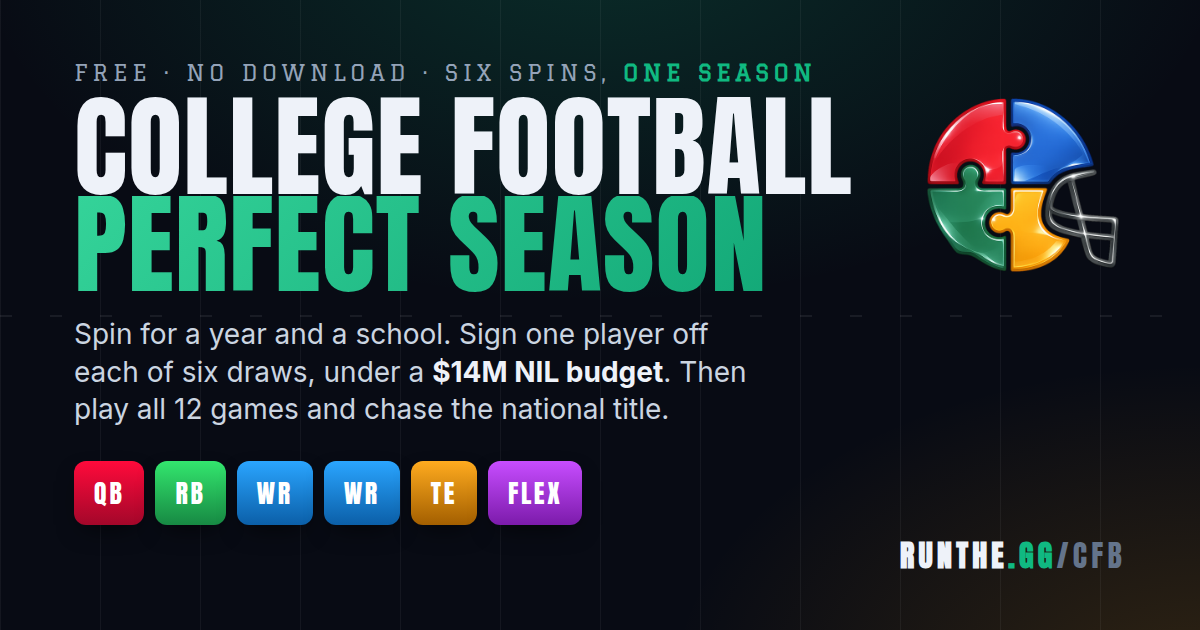
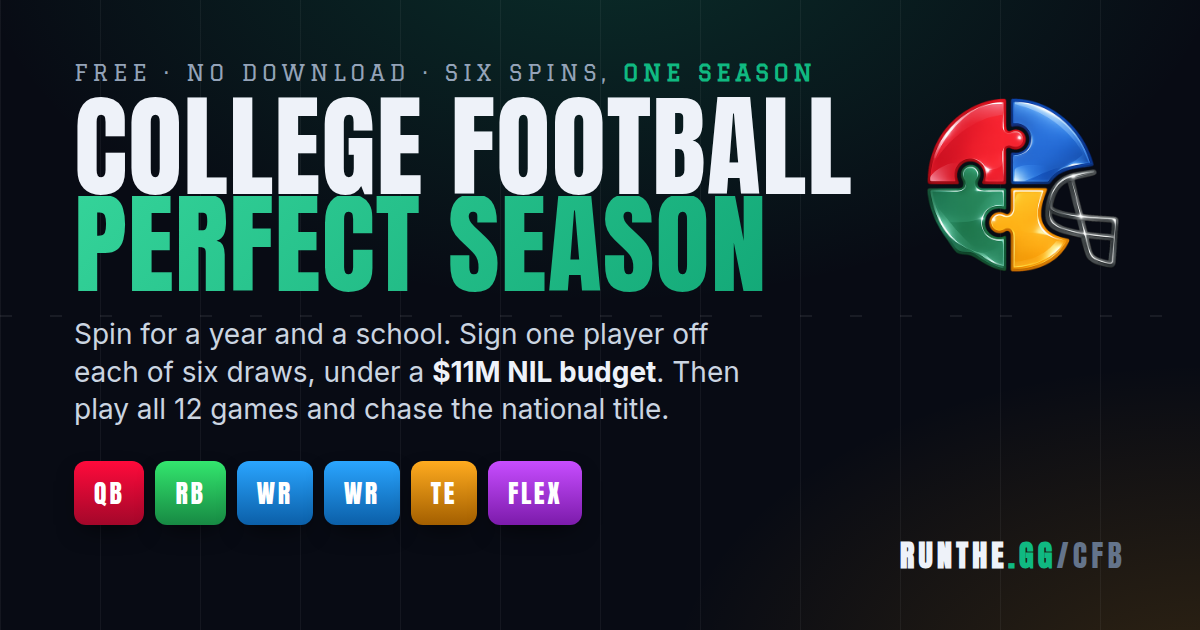
Bump the asset versions, so the cap change actually reaches a browser
The deployed source was right and the deployed page said $11M, but a returning
player still drafted under $14M: every script and data file is served under a
?v= query and none of them moved when the constants did, so the browser kept
using engine.js?v=5 from its cache and never asked whether the file had changed.
New copy, old rules.

engine.js 5 to 6 for the cap, SCALE, POOL_GAMMA, MARGIN_GAIN, the playoff ladder
and the defence term. achievements.js 1 to 2 for the three retuned badges. The
data fetch 1 to 2 for the rebuilt display calibration, which decides the
scorelines. run.js 3 to 4 to keep it honest with the pair it is loaded beside.

og.png was rebuilt from og-source.html, since the share card had "$14M NIL
budget" set into the image itself, and its og:image is now versioned on both
pages so the platforms re-crop it rather than serving the old card.

The rule is written down next to the script tags now: bump the number in the
same commit that edits the file.

Claude-Session: https://claude.ai/code/session_01FcBX49sJXW9CvczwJr2FtM

Changed region(s): [[0.37, 0.573, 0.6167, 0.6333]]

diff --git a/cfb/index.html b/cfb/index.html
@@ -39,14 +39,14 @@
 <meta property="og:site_name" content="RunThe.GG">
 <meta property="og:url" content="https://runthe.gg/cfb/">
 <meta property="og:locale" content="en_US">
-<meta property="og:image" content="https://runthe.gg/cfb/og.png?v=1">
+<meta property="og:image" content="https://runthe.gg/cfb/og.png?v=2">
 <meta property="og:image:width" content="1200">
 <meta property="og:image:height" content="630">
 <meta property="og:image:alt" content="College Football: Perfect Season. Spin for a year and a school, sign six players under an $11M NIL budget and play a full season. The six roster spots shown as QB, RB, WR, WR, TE and FLEX.">
 <meta name="twitter:card" content="summary_large_image">
 <meta name="twitter:title" content="College Football: Perfect Season">
 <meta name="twitter:description" content="Draft a college football roster from every season since 2005 under an $11M NIL budget, then play all 12 games and chase a perfect season.">
-<meta name="twitter:image" content="https://runthe.gg/cfb/og.png?v=1">
+<meta name="twitter:image" content="https://runthe.gg/cfb/og.png?v=2">
 <meta name="twitter:image:alt" content="College Football: Perfect Season. Draft six players under an $11M NIL budget and play a full season.">
 <!-- Structured data, so a search result can carry the game's name and category rather
      than only a blue link. VideoGame is the type Google documents for this; the offer
@@ -2125,10 +2125,19 @@ or endorsed by the NCAA, the CFP or any school.
      before, recording seasons anonymously. An account is a way to put your name on a
      season, not a gate in front of playing one. board.js does not use this library at
      all; it talks to PostgREST with fetch. -->
+<!-- ?v= IS THE ONLY THING THAT SHIPS A CHANGE TO SOMEONE WHO HAS ALREADY PLAYED.
+     These files are served with an ordinary cache header, so a returning browser
+     reuses whatever it holds under this exact URL and never asks whether the file
+     moved. The HTML updates, the scripts do not, and the game runs old rules under
+     new copy: after the cap went to $11M the page said $11M everywhere while the
+     draft still handed out $14M, because engine.js was still ?v=5 in the browser.
+     BUMP THE NUMBER IN THE SAME COMMIT THAT EDITS THE FILE. The data files are
+     versioned too, in the fetch at the bottom of this file, and the share card is
+     versioned on its og:image. -->
 <script defer src="https://cdn.jsdelivr.net/npm/@supabase/supabase-js@2.45.4/dist/umd/supabase.js"></script>
-<script src="engine.js?v=5"></script>
-<script src="run.js?v=3"></script>
-<script src="achievements.js?v=1"></script>
+<script src="engine.js?v=6"></script>
+<script src="run.js?v=4"></script>
+<script src="achievements.js?v=2"></script>
 <script src="auth.js?v=1"></script>
 <script src="board.js?v=1"></script>
 <script>
@@ -3255,7 +3264,7 @@ function patchLastRun(patch){
 /* ── boot ────────────────────────────────────────────────────── */
 async function boot(){
   try{
-    const j=(f)=>fetch(f+'?v=1').then(r=>{if(!r.ok)throw new Error(f);return r.json();});
+    const j=(f)=>fetch(f+'?v=2').then(r=>{if(!r.ok)throw new Error(f);return r.json();});
     const [pl,tm,bat,co,cu,lg,cal]=await Promise.all([
       j('data/cfb_player_seasons.json'),j('data/cfb_team_seasons.json'),
       j('data/cfb_battery.json'),j('data/cfb_coaches.json'),

diff --git a/cfb/how-to-play.html b/cfb/how-to-play.html
@@ -17,7 +17,7 @@
 <meta property="og:url" content="https://runthe.gg/cfb/how-to-play.html">
 <meta property="og:title" content="How to Play College Football: Perfect Season">
 <meta property="og:description" content="Six spins, an $11M NIL budget and a 12-game season. The rules of the free college football draft game on RunThe.GG.">
-<meta property="og:image" content="https://runthe.gg/cfb/og.png">
+<meta property="og:image" content="https://runthe.gg/cfb/og.png?v=2">
 <meta name="twitter:card" content="summary_large_image">
 <meta name="twitter:site" content="@RunTheGG">
 
